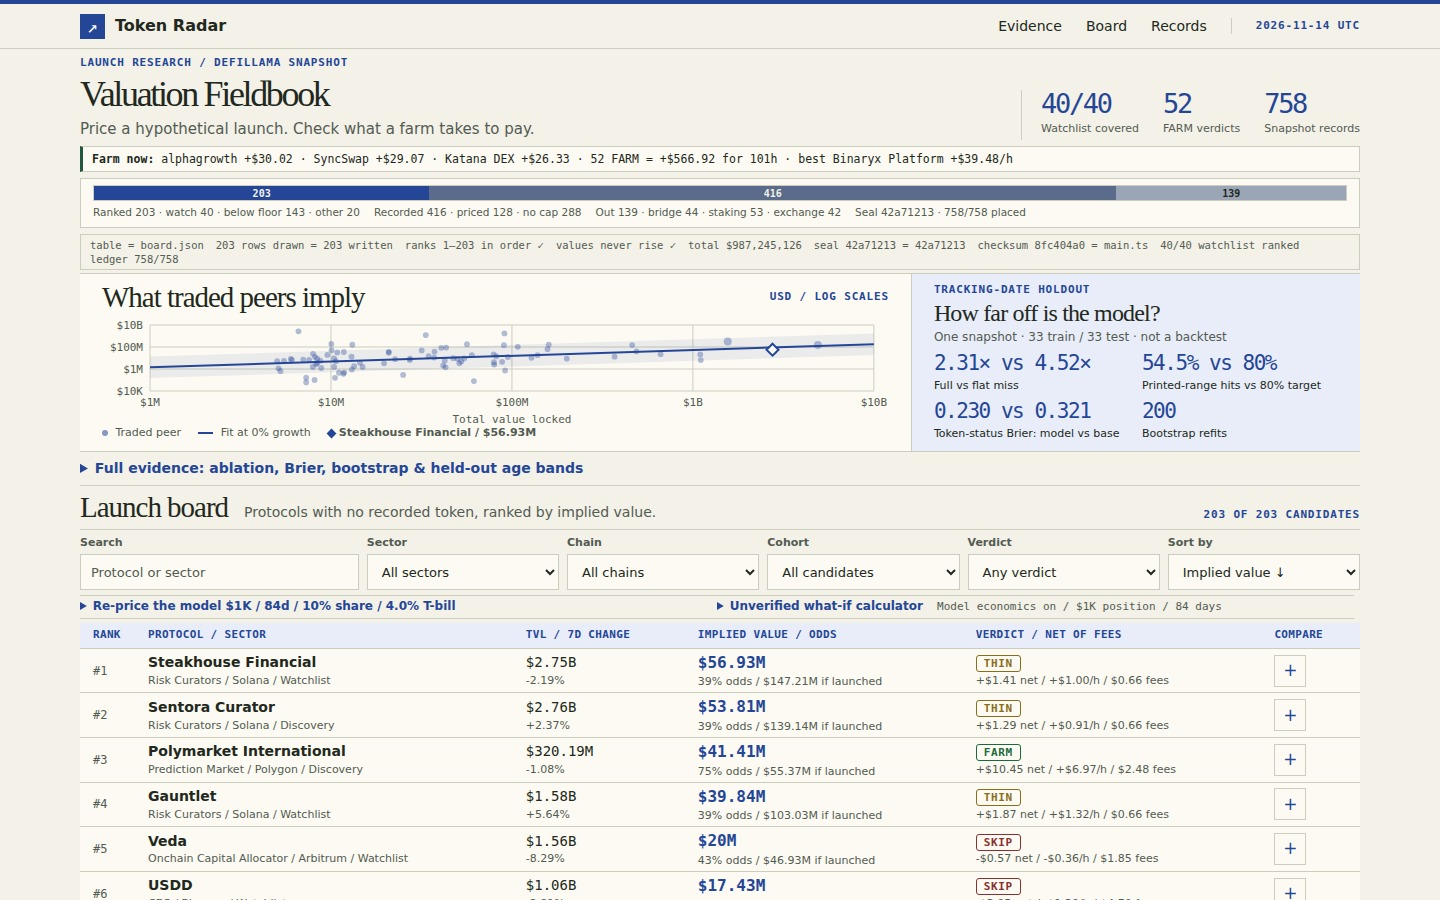
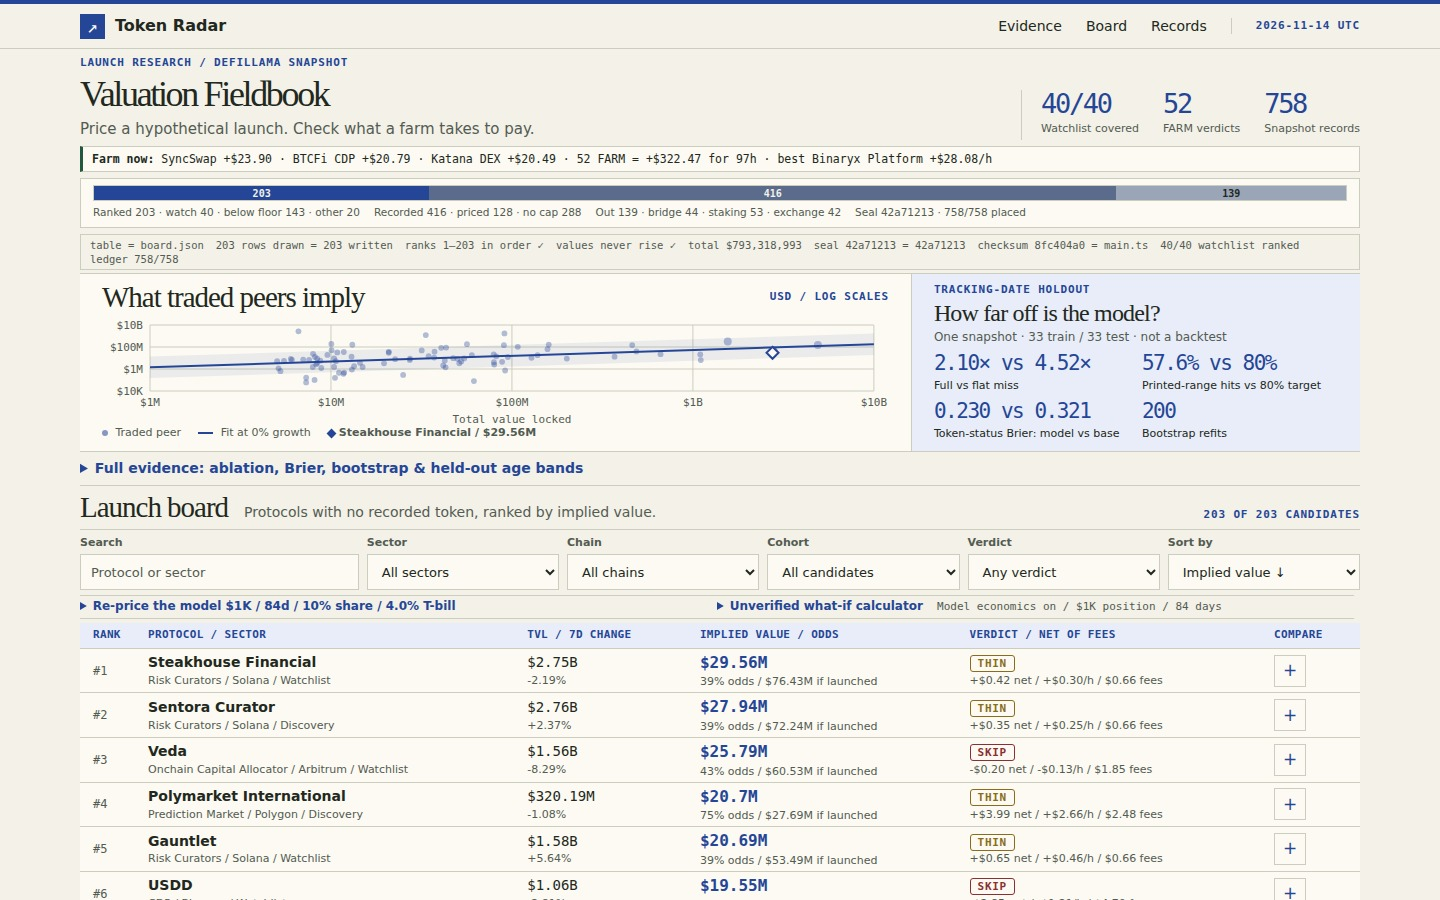
Remove the category premium after both held-out tests worsened with it; disclose the removed term

diff --git a/lib/evidence.ts b/lib/evidence.ts
@@ -83,15 +83,13 @@ function medianMiss(errors: number[]) {
   return Math.exp(quantile(errors.map(Math.abs), 0.5));
 }
 
-const modes = ['Flat median multiple', 'Full conditional cap', 'Without TVL', 'Without growth', 'Without seasoning', 'Without category', 'Shuffled growth control'] as const;
+const modes = ['Flat median multiple', 'Full conditional cap', 'Without TVL', 'Without growth', 'Without seasoning', 'With category premium (removed)', 'Shuffled growth control'] as const;
 function conditionalFold(train: Protocol[], test: Protocol[], asOf: string) {
   const median = marketMedianChange(train);
   const full = fitCurve(train, true, median);
   const noTvl = fitCurve(train, true, median, false);
   const noGrowth = fitCurve(train, false, median);
   const premiums = categoryPremiums(train, full);
-  const tvlPremiums = categoryPremiums(train, noTvl);
-  const growthPremiums = categoryPremiums(train, noGrowth);
   const flat = quantile(train.map(t => capLog(t) - Math.log(t.tvl_usd)), 0.5);
   const rand = mulberry32(0xA81A710);
   const growth = train.map(t => t.change_7d);
@@ -101,16 +99,15 @@ function conditionalFold(train: Protocol[], test: Protocol[], asOf: string) {
   }
   const shuffled = train.map((t, i) => ({ ...t, change_7d: growth[i] }));
   const controlFit = fitCurve(shuffled, true, median);
-  const controlPremiums = categoryPremiums(shuffled, controlFit);
   return test.map(p => {
-    const priced = price(p, asOf, full, premiums);
+    const priced = price(p, asOf, full);
     let seed = 0xA81A710;
     for (const c of p.slug) seed = Math.imul(seed ^ c.charCodeAt(0), 16777619);
     const control = { ...p, change_7d: growth[Math.floor(mulberry32(seed)() * growth.length)] };
     return [Math.log(p.tvl_usd) + flat, Math.log(priced.value),
-      Math.log(price(p, asOf, noTvl, tvlPremiums).value), Math.log(price(p, asOf, noGrowth, growthPremiums).value),
-      Math.log(clamp(Math.round(priced.curve * priced.growth * priced.premium), 1, MAX_VALUE)), Math.log(price(p, asOf, full).value),
-      Math.log(price(control, asOf, controlFit, controlPremiums).value)];
+      Math.log(price(p, asOf, noTvl).value), Math.log(price(p, asOf, noGrowth).value),
+      Math.log(clamp(Math.round(priced.curve * priced.growth), 1, MAX_VALUE)), Math.log(price(p, asOf, full, premiums).value),
+      Math.log(price(control, asOf, controlFit).value)];
   });
 }
 
@@ -130,13 +127,12 @@ export function productionAblation(peers: Protocol[], asOf: string) {
   const miss = (xs: number[][], i: number) => xs.length ? medianMiss(xs.map(x => x[i])) : null;
   return { loo_n: loo.length, train_n: train.length, split_n: split.length,
     rows: modes.map((term, i) => ({ term, loo: miss(loo, i), split: miss(split, i) })),
-    design: 'Fixed identical folds; fold-local median and category premiums. Removing TVL or growth refits the curve and premiums; seasoning/category are neutralized. Control permutes training growth and assigns held-out growth by a seeded slug draw from training. Odds excluded: target is traded conditional cap.' };
+    design: 'Fixed identical folds; fold-local median. The production model prices curve × growth × seasoning; the category-premium row adds the removed v7 term back. Removing TVL or growth refits the curve; seasoning is neutralized. Control permutes training growth and assigns held-out growth by a seeded slug draw from training. Odds excluded: target is traded conditional cap.' };
 }
 
 export function coverageFold(train: Protocol[], test: Protocol[], asOf: string, oddsUniverse: Protocol[] = train) {
   const median = marketMedianChange(train);
   const fit = fitCurve(train, true, median);
-  const premiums = categoryPremiums(train, fit);
   // Recreate the shipped age-band estimator using inner-LOO growth-only errors.
   const calibrationErrors = train.map((p, i) => {
     const inner = train.filter((_, j) => j !== i);
@@ -147,7 +143,7 @@ export function coverageFold(train: Protocol[], test: Protocol[], asOf: string, 
   const oddsModel = cohortOdds(oddsUniverse, asOf);
   return test.map(p => {
     const age = trackingDays(p, asOf);
-    const conditional = price(p, asOf, fit, premiums).value;
+    const conditional = price(p, asOf, fit).value;
     const odds = oddsModel.oddsFor(age);
     const implied = clamp(Math.round(conditional * odds), 1, MAX_VALUE);
     const factor = bandFor(age);
@@ -302,13 +298,11 @@ export function bootstrap(peers: Protocol[], asOf: string, median: number, rowIn
     let fit: Fit;
     try { fit = fitCurve(sample, true, median); } catch { continue; }
     slopes.push(fit.slope); momenta.push(fit.momentum); intercepts.push(fit.intercept);
-    const premiums = categoryPremiumsLocal(sample, fit, median);
     const values = rowInputs.map(r => {
       const curve = curveValue(r.tvl_usd, fit);
       const growth = Math.exp(fit.momentum * growthInput({ change_7d: r.change_7d } as Protocol, median));
       const age = maturity(r.age_days);
-      const prem = (r.category && premiums.get(r.category)) || 1;
-      return { slug: r.slug, v: curve * growth * age * prem * r.launch_odds };
+      return { slug: r.slug, v: curve * growth * age * r.launch_odds };
     }).sort((a, b2) => b2.v - a.v || lexical(a.slug, b2.slug));
     values.forEach((v, i) => rankLists.get(v.slug)!.push(i + 1));
   }
@@ -325,7 +319,7 @@ export function bootstrap(peers: Protocol[], asOf: string, median: number, rowIn
     slope_se: se(slopes), momentum_se: se(momenta), intercept_se: se(intercepts),
     slope_p10_p90: [quantile(slopes, 0.1), quantile(slopes, 0.9)],
     rank_range,
-    design: '200 bootstrap resamples of the traded-peer set, refit end to end (curve, premiums), re-pricing every board row at its published odds. Rank range is the min–max across refits, not a confidence interval.',
+    design: '200 bootstrap resamples of the traded-peer set, refit end to end (curve), re-pricing every board row at its published odds. Rank range is the min–max across refits, not a confidence interval.',
   };
 }
 

diff --git a/dashboard/app.js b/dashboard/app.js
@@ -83,11 +83,11 @@
     $('oos-evidence').innerHTML = [renderAblation(), renderBrier(), renderBootstrap(), renderCoverage()].map(html => `<article>${html}</article>`).join('');
     const cohort = data.odds_cohort;
     const premiums = data.category_premiums.filter(c => c.n >= 2).sort((a, b) => b.n - a.n || a.category.localeCompare(b.category, 'en'));
-    $('methods').innerHTML = `<p><b>Formula.</b> value = e^(${fit.intercept.toFixed(4)} + ${fit.slope.toFixed(4)} × ln(TVL / $100M) + ${fit.momentum.toFixed(4)} × g) × seasoning × category premium × launch odds. g = clamp(7d − median (${data.market_median_change_7d.toFixed(1)}%), ±30)/30; missing = market. Ridge 2/12; slope 0–1.5, growth ±0.25. Pre-odds value in every dossier.</p>
+    $('methods').innerHTML = `<p><b>Formula.</b> value = e^(${fit.intercept.toFixed(4)} + ${fit.slope.toFixed(4)} × ln(TVL / $100M) + ${fit.momentum.toFixed(4)} × g) × seasoning × launch odds. g = clamp(7d − median (${data.market_median_change_7d.toFixed(1)}%), ±30)/30; missing = market. Ridge 2/12; slope 0–1.5, growth ±0.25. Pre-odds value in every dossier.</p>
       <p><b>Launch odds.</b> ${esc(cohort.disclosure)}</p>
       <table class="sensitivity"><caption>Cohort launch odds / snapshot</caption><thead><tr><th>Age</th><th>n</th><th>Launched</th><th>Raw</th><th>Applied</th></tr></thead><tbody>${cohort.buckets.map(b => `<tr><th>${esc(b.label)}</th><td>${b.n}</td><td>${b.launched}</td><td>${b.n ? oddsPct(b.raw_rate) : 'n/a'}</td><td>${oddsPct(b.rate)}</td></tr>`).join('')}<tr><th>No tracking date</th><td colspan="3">Disclosed prior</td><td>${oddsPct(cohort.prior)}</td></tr></tbody></table>
-      <p><b>Category premium.</b> Median traded gap, shrunk n/(n+5), clamped 0.5–2×; no peers = 1×.</p>
-      <table class="sensitivity"><caption>Category premiums (n ≥ 2)</caption><thead><tr><th>Category</th><th>n</th><th>Raw</th><th>Applied</th></tr></thead><tbody>${premiums.map(c => `<tr><th>${esc(c.category)}</th><td>${c.n}</td><td>${times(c.raw)}</td><td>${times(c.factor)}</td></tr>`).join('')}</tbody></table>
+      <p><b>Category premium — tested, removed in v8.</b> Adding it back worsens both held-out tests (ablation above), so production prices curve × growth × seasoning only. The former per-category estimates stay disclosed below; they no longer enter any value.</p>
+      <table class="sensitivity"><caption>Former category premiums (n ≥ 2) — not applied</caption><thead><tr><th>Category</th><th>n</th><th>Raw</th><th>Former factor</th></tr></thead><tbody>${premiums.map(c => `<tr><th>${esc(c.category)}</th><td>${c.n}</td><td>${times(c.raw)}</td><td>${times(c.factor)}</td></tr>`).join('')}</tbody></table>
       <p><b>Seasoning.</b> 0.82 + 0.18 × min(days/1460, 1); missing = 730d. A haircut, not launch probability.</p>
       <p>Tracking-date cutoff: ${wf.cutoff_date}. Overlapping LOO folds are descriptive, not significance tests.</p>
       <p><b>Top-10, TVL-only refit:</b> ${validation.top_rank_sensitivity.map(r => `${esc(bySlug.get(r.slug).name)} #${r.rank}→#${r.tvl_only_rank}`).join('; ')}. Not tuned on.</p>
@@ -105,10 +105,14 @@
       if (i === 0) return 'baseline';
       if (i === 1) return 'production';
       if (/shuffled/i.test(r.term)) return 'negative control';
+      if (/removed/i.test(r.term)) {
+        const worse = r.loo != null && r.split != null && r.loo > full.loo && r.split > full.split;
+        return worse ? 'removed — hurts both folds' : 'removed — mixed evidence';
+      }
       const worse = (r.loo != null && r.loo > full.loo) && (r.split != null && r.split > full.split);
       return worse ? 'kept — hurts both folds' : 'kept — mixed evidence';
     };
-    return `<p><b>Production conditional-cap ablation.</b> Each row removes one shipped factor; every variant refits on identical held-out folds. Descriptive evidence only; no production term selection.</p>
+    return `<p><b>Production conditional-cap ablation.</b> Each row removes one shipped factor — except the category row, which adds the removed v7 term back; every variant refits on identical held-out folds. Descriptive evidence only; no production term selection.</p>
       <table class="sensitivity"><caption>Median absolute multiplicative miss · lower is better · Δ vs full (positive = worse)</caption><thead><tr><th>Variant</th><th>LOO n=${a.loo_n} miss (Δ)</th><th>Date-split n=${a.split_n} miss (Δ)</th><th>Verdict</th></tr></thead><tbody>${a.rows.map((r,i)=>`<tr><th>${esc(r.term)}</th><td>${cell(r.loo,full.loo,i)}</td><td>${cell(r.split,full.split,i)}</td><td>${status(r,i)}</td></tr>`).join('')}</tbody></table>
       <p class="muted">${esc(a.design)}</p>`;
   }
@@ -234,7 +238,7 @@
         <h3>Model economics / disclosed assumptions</h3>${modelLedger}${whatIf}
       </article><article>${proof}<h3>Valuation ledger</h3>${ledger([
         ['Peer curve at this TVL', usd(f.curve)], ['Weekly TVL factor', `${f.growth.toFixed(4)}×`], ['Tracking days / seasoning', `${r.age_days ?? 'Unreported'} / ${f.age.toFixed(4)}×`],
-        ['Category premium', `${f.premium.toFixed(4)}× (n=${r.category_premium.n})`], ['Launch odds (cohort)', oddsPct(r.launch_odds)],
+        ['Category premium (removed v8)', `1.0000× applied · former estimate ${r.category_premium.raw.toFixed(3)}× (n=${r.category_premium.n})`], ['Launch odds (cohort)', oddsPct(r.launch_odds)],
         ['Value if launched (whole USD)', new Intl.NumberFormat('en-US').format(r.conditional_value_usd)],
         ['Implied value (whole USD)', new Intl.NumberFormat('en-US').format(r.implied_value_usd)], ['Error-based range (age-matched ×' + r.range_factor.toFixed(2) + ')', range(r)],
  ['Rank across 200 bootstrap refits', `#${r.rank_range[0]}–#${r.rank_range[1]} (published #${r.rank})`],

diff --git a/lib/model.ts b/lib/model.ts
@@ -122,9 +122,11 @@ export function curveValue(tvl: number, fit: Fit) {
   return Math.exp(fit.intercept + fit.slope * Math.log(tvl / 100_000_000));
 }
 
-// Category premium: the median gap between a category's traded tokens and the
-// fitted curve, shrunk toward 1 when comparables are few (n/(n+5)) and clamped
-// to [0.5, 2]. Categories without traded peers keep the neutral premium 1.
+// Category premium was a production term through v7: the median gap between a
+// category's traded tokens and the fitted curve, shrunk n/(n+5), clamped [0.5,2].
+// The production ablation showed removing it improves BOTH held-out tests
+// (LOO 3.606→3.290, date split 2.305→2.104), so v8 removed it from pricing.
+// The estimator is retained for the ablation evidence and the disclosed table.
 export interface Premium { factor: number; n: number; raw: number }
 export function categoryPremiums(peers: Protocol[], fit: Fit): Map<string, Premium> {
   const gaps = new Map<string, number[]>();
@@ -287,7 +289,7 @@ export function buildRadar(snapshot: Snapshot) {
   // value multiplies odds in, so odds are never double-counted.
   const econFor = (p: Protocol, conditionalValue: number) => farmEconomics(p, { asOf: as_of, impliedValue: conditionalValue, odds: odds_cohort.oddsFor(trackingDays(p, as_of)) });
   // Validate plans for every source record, including excluded products.
-  const sourcePlans = new Map(protocols.map(p => [p.slug, farmPlan(p, trackingDays(p, as_of), econFor(p, price(p, as_of, fit, premiums).value))]));
+  const sourcePlans = new Map(protocols.map(p => [p.slug, farmPlan(p, trackingDays(p, as_of), econFor(p, price(p, as_of, fit).value))]));
   const validationRaw = validate(peers, as_of, market_median_change_7d);
   const { bandFor, ...validation } = validationRaw;
   const walk_forward = walkForward(peers, as_of, market_median_change_7d);
@@ -295,7 +297,7 @@ export function buildRadar(snapshot: Snapshot) {
   const candidates = classified.filter(({ status }) => status === 'Watchlist' || status === 'Discovery' || status === 'Off-list');
   const insightCtx = { median: market_median_change_7d, rankedTvls: candidates.map(({ p }) => p.tvl_usd).sort((a, b) => a - b), cohortRateFor: odds_cohort.oddsFor, asOf: as_of };
   const rows = candidates.map(({ p, status }) => {
-    const factors = price(p, as_of, fit, premiums);
+    const factors = price(p, as_of, fit);
     const launch_odds = odds_cohort.oddsFor(factors.age_days);
     // implied value = value if it launches × launch odds (odds-weighted).
     const implied = clamp(Math.round(factors.value * launch_odds), 1, MAX_VALUE);
@@ -305,7 +307,7 @@ export function buildRadar(snapshot: Snapshot) {
     return {
       ...p, cohort: status, age_days: factors.age_days, implied_value_usd: implied,
       conditional_value_usd: factors.value, launch_odds, verdict: plan.verdict,
-      category_premium: premiumFor(premiums, p.category),
+      category_premium: { factor: 1, n: premiumFor(premiums, p.category).n, raw: premiumFor(premiums, p.category).raw, removed: true },
       range: [Math.max(1, Math.floor(implied / bandFor(factors.age_days))), Math.min(MAX_VALUE, Math.ceil(implied * bandFor(factors.age_days)))],
       range_factor: bandFor(factors.age_days),
       extrapolated: p.tvl_usd < limits[0] || p.tvl_usd > limits[1], factors, comparables, plan,

diff --git a/dashboard/recompute.js b/dashboard/recompute.js
@@ -12,8 +12,8 @@
     const curve = Math.exp(F.fit.intercept + F.fit.slope * Math.log(tvl / 1e8));
     const growth = Math.exp(F.fit.momentum * g);
     const seasoning = 0.82 + 0.18 * clamp((r.age_days ?? 730) / 1460, 0, 1);
-    const premium = o.premium ?? r.category_premium.factor, odds = o.odds ?? r.launch_odds;
-    const conditional = clamp(Math.round(curve * growth * seasoning * premium), 1, 1e14);
+    const premium = 1, odds = o.odds ?? r.launch_odds; // category premium removed in v8; pricing is curve × growth × seasoning
+    const conditional = clamp(Math.round(curve * growth * seasoning), 1, 1e14);
     return { curve, growth, seasoning, premium, odds, conditional, implied: clamp(Math.round(conditional * odds), 1, 1e14) };
   }
   function farmRow(r, s = {}) {

diff --git a/tests/browser_test.py b/tests/browser_test.py
@@ -56,7 +56,7 @@ def main():
             complete_rows = page.locator('.table tbody tr').evaluate_all('(rows)=>rows.filter(r=>{const b=r.getBoundingClientRect();return b.top>=0 && b.bottom<=innerHeight}).length')
             assert complete_rows >= 5, complete_rows
             assert fully_visible('#chart') and page.locator('.chart-point').count() == 87
-            assert fully_visible('#validation .metric') and page.locator('#validation .metric').all_inner_texts() == ['2.31× vs 4.52×','54.5% vs 80%','0.230 vs 0.321','200']
+            assert fully_visible('#validation .metric') and page.locator('#validation .metric').all_inner_texts() == ['2.10× vs 4.52×','57.6% vs 80%','0.230 vs 0.321','200']
             assert 'Full vs flat miss' in page.locator('#validation').inner_text()
             assert 'Printed-range hits vs 80% target' in page.locator('#validation').inner_text()
             assert 'Token-status Brier: model vs base' in page.locator('#validation').inner_text()
@@ -75,7 +75,7 @@ def main():
             page.locator('#search').fill('Katana DEX')
             page.locator('[data-open="katana-dex"]').click()
             detail = page.locator('#detail').inner_text()
-            assert 'Optimal renewal point — day 73' in detail and '$0.18/day carry' in detail
+            assert 'Optimal renewal point — day 38' in detail and '$0.18/day carry' in detail
             assert 'Farm it' in detail and 'Build scenario only' in detail
             assert 'Fees covered from n/a' not in detail
             assert fully_visible('.decision') and fully_visible('.renewal')
@@ -190,12 +190,12 @@ def main():
             page.locator('#evidence-pack>summary').evaluate('(e)=>e.scrollIntoView({block:"start"})')
             evidence = page.locator('#oos-evidence').inner_text()
             shuffled = page.locator('#oos-evidence tr').filter(has_text='Shuffled growth control').locator('td').all_inner_texts()
-            assert shuffled == ['3.458× (-0.15×)','2.415× (+0.11×)','negative control'], shuffled
-            without_category = page.locator('#oos-evidence tr').filter(has_text='Without category').locator('td').all_inner_texts()
-            assert without_category == ['3.290× (-0.32×)','2.104× (-0.20×)','kept — mixed evidence'], without_category
+            assert shuffled == ['3.303× (+0.01×)','2.168× (+0.06×)','negative control'], shuffled
+            removed_category = page.locator('#oos-evidence tr').filter(has_text='With category premium (removed)').locator('td').all_inner_texts()
+            assert removed_category == ['3.606× (+0.32×)','2.305× (+0.20×)','removed — hurts both folds'], removed_category
             assert 'kept — hurts both folds' in evidence
-            assert '61/87 (70.1%)' in evidence and '18/33 (54.5%)' in evidence
-            assert '66/87 (75.9%)' in evidence and '23/33 (69.7%)' in evidence
+            assert '59/87 (67.8%)' in evidence and '19/33 (57.6%)' in evidence
+            assert '64/87 (73.6%)' in evidence and '23/33 (69.7%)' in evidence
             assert 'odds-weighted dossier range' in evidence and 'future-launch calibration' in evidence
             assert 'no production term selection' in evidence
             assert fully_visible('#oos-evidence'), page.locator('#oos-evidence').bounding_box()

diff --git a/dashboard/00-judge-briefing.md b/dashboard/00-judge-briefing.md
@@ -1,6 +1,6 @@
 # Fieldbook evidence map
 
-1. Board: `buildRadar()` ranks 203/758 and covers 40/40 watchlist. The audit strip is in the first viewport: `checksum … = main.ts`, seal, exact total $987,245,126, ranks 1–203 in order, ledger 758/758. Every record accounted for; Off-list is not parent-adjusted.
-2. Method: `productionAblation()` removes TVL, growth, seasoning and category factors on identical LOO/date-split folds, each row carrying a verdict: baseline / production / kept — hurts both folds / kept — mixed evidence / negative control. No production term is selected or changed. Category removal improves both diagnostics; shuffled growth improves LOO but worsens the date split. `nestedCoverage()` tests the published odds-weighted dossier range: 61/87 LOO and 18/33 date-split hits vs the 80% target; the separate conditional-cap diagnostic is 66/87 and 23/33. Traded-cap cross-sectional evidence, not future-launch calibration. `oddsBrier()` evaluates observed token status (0.218 vs 0.251 ten-fold; 0.230 vs 0.321 date split); `bootstrap()` 200 refits give slope 0.523 ± 0.125 and per-dossier rank min–max, not a CI.
-3. Dossier: `farmEconomics()` costs fees, work and yield. Katana day 73 contrasts Steakhouse day 7. Renewal/timeline are build-scenario only. `Recompute.verify()` checks valuation; dossiers show factors, ranges, peers and rank stability.
+1. Board: `buildRadar()` ranks 203/758 and covers 40/40 watchlist. The audit strip is in the first viewport: `checksum … = main.ts`, seal, exact total $793,318,993, ranks 1–203 in order, ledger 758/758. Every record accounted for; Off-list is not parent-adjusted.
+2. Method: v8 removed the category premium from pricing — `productionAblation()` shows adding it back worsens BOTH held-out tests (LOO 3.290→3.606, split 2.104→2.305), labeled "removed — hurts both folds". Production prices curve × growth × seasoning × odds; former estimates stay disclosed, unapplied. TVL removal hurts both folds; growth/seasoning mixed, kept. Shuffled growth is the negative control. `nestedCoverage()` tests the published odds-weighted range: 59/87 LOO, 19/33 split vs the 80% target; conditional-cap diagnostic 64/87, 23/33. Cross-sectional, not launch calibration. `oddsBrier()`: 0.218 vs 0.251 ten-fold, 0.230 vs 0.321 split. `bootstrap()` 200 refits: slope 0.523 ± 0.125, rank min–max, not CI.
+3. Dossier: `farmEconomics()` costs fees, work and yield. Katana day 38 contrasts Steakhouse day 7. Renewal/timeline are build-scenario only. `Recompute.verify()` checks valuation; dossiers show factors, ranges, peers and rank stability.
 4. Filtered: sector filter and live inputs. `Recompute.farmRow()` updates board, dossier, comparison, CSV and portfolio without changing valuations. Pool what-if is separate. All captures are reachable states of the shipped offline UI.
